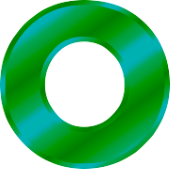
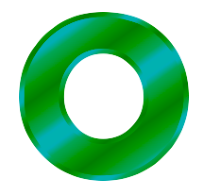
Adjusts size of image

diff --git a/CSS/style.css b/CSS/style.css
@@ -31,7 +31,7 @@ td {
     cursor: pointer;
     border: 4px solid rgb(118, 2, 46);
     padding: 90px;
-    /* width: 200px; */
+    width: 200px;
     filter: contrast(3);
 }
 
